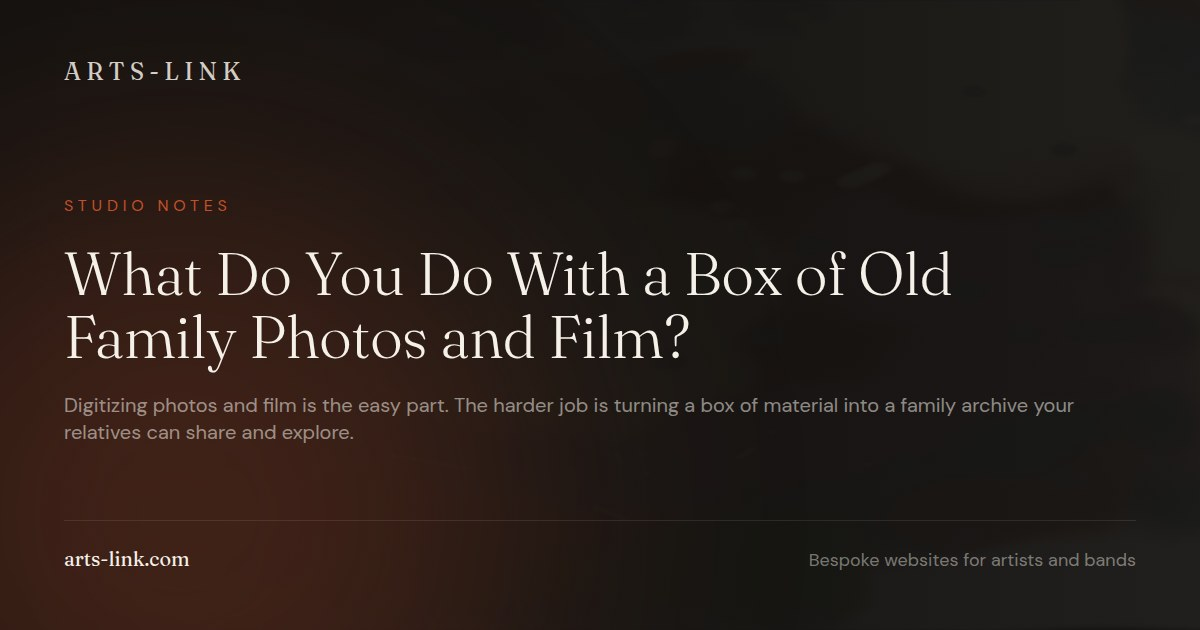
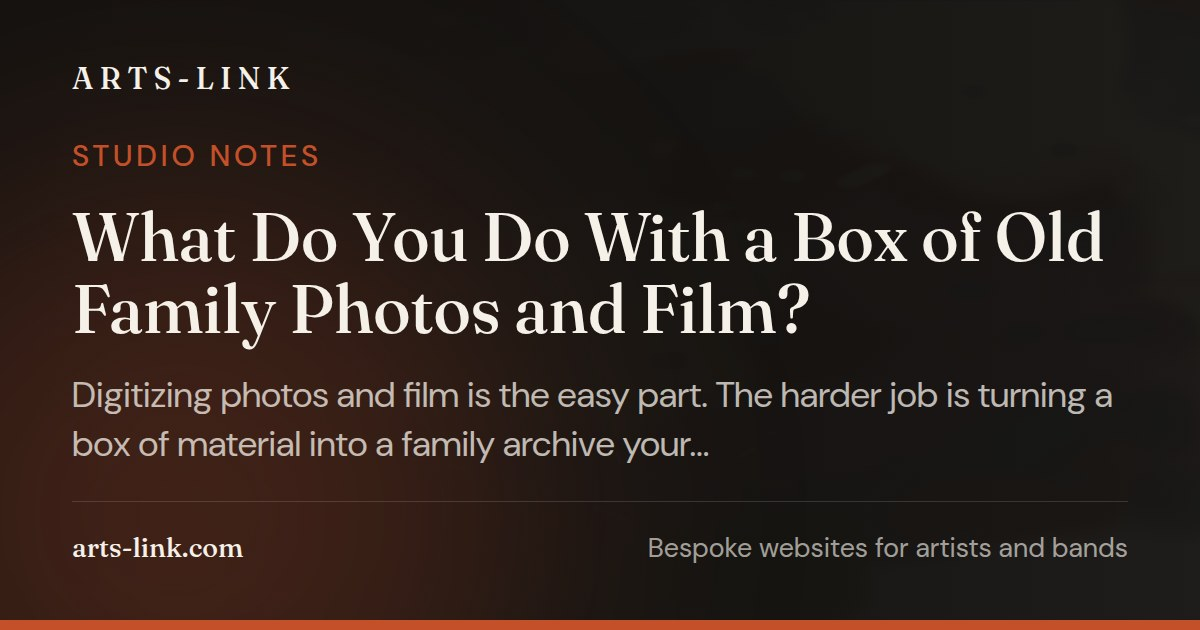
Redesign the social cards to read when downsampled
Link unfurls show these at roughly 300px in iMessage, 360px in Slack and 500px
on X — a 2x to 4x downsample. The first design was judged at 1200px, where it
looked fine; at the sizes people actually see, only the title survived, and
that thinly.

Three things were doing the damage: Fraunces at weight 300 loses its strokes
when scaled down, everything but the title sat below 30px, and cream/45–/55
washed out to nothing. So the card now has a type floor of ~27px, uses weight
500 for the display face, keeps text at cream/65 or above, and eases the
letter-spacing on the small caps, which smeared. A solid ember bar along the
bottom edge carries the brand at sizes where no type is readable at all.

The screenshot is larger and bled off the right edge — it can only ever be a
shape at these sizes, so it may as well be a bold one. The description is
dropped from cards that have a screenshot, where it shrank into a grey band
that read as noise rather than as text.

Two flaws that only showed up in a small-format contact sheet of all 20:
section listings repeated their own title in the eyebrow (WORK above "Work"),
so listings no longer take one; and unmapped sections fell back to the
Arts-Link brand, which the wordmark above already carries, so they now
humanize their own name instead.

docs/site-system.yaml and CLAUDE.md record the sizing constraint and the
instruction to judge any redesign downsampled rather than at full size.
[…]

diff --git a/layouts/partials/og-card.html b/layouts/partials/og-card.html
@@ -6,15 +6,26 @@
   can design it live: `hugo server`, then open e.g.
   http://localhost:1313/work/rt2026/og.html
 
+  Sizing is driven by where these are actually seen. Link unfurls render the
+  card at roughly 300px (iMessage), 360px (Slack) or 500px (X) wide — a 2x to
+  4x downsample — so nothing here is below ~27px, the display face is weight
+  500 rather than the site's usual light (thin strokes disappear when scaled
+  down), and text sits at cream/65 or above. The solid ember bar along the
+  bottom carries the brand at sizes where no type is readable at all.
+
   This is the only file to edit when redesigning the card.
 */}}
 
 {{- $shot := "" }}
 {{- with .Resources.GetMatch "screenshot*" }}
-  {{- $shot = .Fill "1120x840 Top" }}
+  {{- $shot = .Fill "1120x700 Top" }}
 {{- end }}
 
-{{/* Eyebrow: section label, plus the client type on work entries. */}}
+{{/* Eyebrow: which part of the site this page belongs to, plus the client type
+     on work entries. Section listings get none — their title already says
+     "Work" or "Services", and repeating it wastes the most legible line on the
+     card. Unmapped sections humanize their name rather than falling back to the
+     brand, which the wordmark above already carries. */}}
 {{- $labels := dict
       "work"     "Work"
       "blog"     "Studio Notes"
@@ -25,74 +36,88 @@
       "contact"  "Contact"
       "thanks"   "Thanks"
 }}
-{{- $eyebrow := cond .IsHome "Web Studio" (index $labels .Section) }}
-{{- if not $eyebrow }}{{ $eyebrow = "Arts-Link" }}{{ end }}
-{{- if and (eq .Section "work") .Params.client_type }}
-  {{- $eyebrow = printf "%s · %s" $eyebrow (title .Params.client_type) }}
+{{- $eyebrow := "" }}
+{{- if .IsHome }}
+  {{- $eyebrow = "Web Studio" }}
+{{- else if .IsPage }}
+  {{- $eyebrow = default (humanize .Section) (index $labels .Section) }}
+  {{- if and (eq .Section "work") .Params.client_type }}
+    {{- $eyebrow = printf "%s · %s" $eyebrow (title .Params.client_type) }}
+  {{- end }}
 {{- end }}
 
-{{/* Title scales down as it gets longer, and again when a screenshot is
-     sharing the row, so nothing overflows the fixed canvas. */}}
+{{/* Title scales down as it gets longer, and again when a screenshot narrows
+     the column. The floor stays large enough to survive a 4x downsample. */}}
 {{- $len := len .Title }}
 {{- $titleSize := "" }}
 {{- if $shot }}
-  {{- $titleSize = cond (le $len 18) "text-6xl" (cond (le $len 34) "text-5xl" "text-4xl") }}
+  {{- $titleSize = cond (le $len 18) "text-[72px]" (cond (le $len 34) "text-[62px]" "text-[52px]") }}
 {{- else }}
-  {{- $titleSize = cond (le $len 22) "text-8xl" (cond (le $len 44) "text-7xl" "text-6xl") }}
+  {{- $titleSize = cond (le $len 22) "text-[104px]" (cond (le $len 44) "text-[84px]" "text-[68px]") }}
 {{- end }}
 
-{{/* Description falls back to the page summary; work entries rarely set one. */}}
-{{- $desc := .Description }}
-{{- if not $desc }}{{ $desc = .Summary }}{{ end }}
-{{- $desc = $desc | plainify | htmlUnescape | strings.TrimSpace | truncate (cond (ne $shot "") 90 150) "…" }}
+{{/* Description only on cards without a screenshot. Beside one it shrinks to a
+     grey band that reads as noise rather than text once downsampled, and the
+     screenshot already carries the context it would have added. */}}
+{{- $desc := "" }}
+{{- if not $shot }}
+  {{- $desc = default .Summary .Description | plainify | htmlUnescape | strings.TrimSpace | truncate 120 "…" }}
+{{- end }}
 
 {{/* Footer tagline — first sentence of the site description. */}}
 {{- $tagline := index (split .Site.Params.description ".") 0 }}
 
-<div class="w-[1200px] h-[630px] relative overflow-hidden bg-ink">
+<div class="relative h-[630px] w-[1200px] overflow-hidden bg-ink">
 
   <!-- Texture (desaturated so it reads as grain, not as competing colour),
        ember glow, and a scrim that keeps the text column on near-solid ink. -->
-  <div class="absolute inset-0 bg-cover bg-center opacity-[0.09]"
+  <div class="absolute inset-0 bg-cover bg-center opacity-[0.08]"
        style="background-image:url('/images/bg-paint-drip.webp');filter:saturate(.25) contrast(1.15)"></div>
-  <div class="absolute inset-0 bg-gradient-to-r from-ink via-ink/80 to-ink/40"></div>
+  <div class="absolute inset-0 bg-gradient-to-r from-ink via-ink/85 to-ink/45"></div>
   <div class="absolute -left-40 -bottom-56 h-[680px] w-[680px] rounded-full bg-ember/25 blur-[140px]"></div>
 
-  <div class="relative flex h-full flex-col px-16 py-14">
+  {{ with $shot }}
+    <!-- Bleeds off the right edge: more pixels for the image, and the crop
+         reads as deliberate rather than as a pasted-in thumbnail. -->
+    <div class="absolute right-[-60px] top-1/2 w-[560px] -translate-y-1/2">
+      <img src="{{ .RelPermalink }}" alt="" width="{{ .Width }}" height="{{ .Height }}"
+           class="w-full rounded-md ring-1 ring-cream/15 shadow-2xl">
+    </div>
+  {{ end }}
+
+  <div class="relative flex h-full flex-col px-[72px] pb-[62px] pt-[56px] {{ if $shot }}w-[700px]{{ end }}">
 
     <!-- Wordmark + badge -->
     <div class="flex items-center justify-between">
-      <span class="font-display text-2xl uppercase tracking-[0.22em] text-cream/85">Arts-Link</span>
+      <span class="font-display text-[30px] font-medium uppercase tracking-[0.2em] text-cream">Arts-Link</span>
       {{ if eq .Params.site_type "rescue" }}
-        <span class="text-sm uppercase tracking-[0.2em] text-ember border border-ember px-3 py-1 leading-none">Rescue</span>
+        <span class="border border-ember px-[14px] py-[6px] text-[23px] uppercase leading-none tracking-[0.1em] text-ember">Rescue</span>
       {{ else if eq .Params.site_type "open-source" }}
-        <span class="text-sm uppercase tracking-[0.2em] text-cream/80 border border-cream/25 px-3 py-1 leading-none">Open source</span>
+        <span class="border border-cream/35 px-[14px] py-[6px] text-[23px] uppercase leading-none tracking-[0.1em] text-cream/85">Open source</span>
       {{ end }}
     </div>
 
     <!-- Body -->
-    <div class="flex flex-1 items-center gap-14 pt-8">
-      <div class="{{ if $shot }}w-[590px] shrink-0{{ else }}w-full{{ end }}">
-        <p class="mb-6 text-base uppercase tracking-[0.3em] text-ember">{{ $eyebrow }}</p>
-        <h1 class="font-display font-light leading-[1.05] text-cream {{ $titleSize }}">{{ .Title }}</h1>
-        {{ with $desc }}
-          <p class="mt-6 text-xl leading-snug text-cream/55 line-clamp-3">{{ . }}</p>
-        {{ end }}
-      </div>
-
-      {{ with $shot }}
-        <div class="min-w-0 flex-1">
-          <img src="{{ .RelPermalink }}" alt="" width="{{ .Width }}" height="{{ .Height }}"
-               class="w-full rounded-sm ring-1 ring-cream/10 shadow-2xl">
-        </div>
+    <div class="flex flex-1 flex-col justify-center">
+      {{ with $eyebrow }}
+        <p class="mb-[22px] text-[30px] font-medium uppercase tracking-[0.13em] text-ember">{{ . }}</p>
+      {{ end }}
+      <h1 class="font-display font-medium leading-[1.06] text-cream {{ $titleSize }}">{{ .Title }}</h1>
+      {{ with $desc }}
+        <p class="mt-[26px] line-clamp-2 text-[36px] leading-snug text-cream/75">{{ . }}</p>
       {{ end }}
     </div>
 
     <!-- Footer -->
-    <div class="flex items-baseline justify-between border-t border-cream/10 pt-6">
-      <span class="font-display text-xl text-cream">arts-link.com</span>
-      <span class="text-lg text-cream/45">{{ $tagline }}</span>
+    <div class="flex items-baseline justify-between border-t border-cream/15 pt-[26px]">
+      <span class="font-display text-[27px] font-medium text-cream">arts-link.com</span>
+      {{ if not $shot }}
+        <span class="text-[27px] text-cream/65">{{ $tagline }}</span>
+      {{ end }}
     </div>
 
   </div>
+
+  <!-- Brand anchor: a solid bar still reads when no type does. -->
+  <div class="absolute inset-x-0 bottom-0 h-[10px] bg-ember"></div>
 </div>

diff --git a/CLAUDE.md b/CLAUDE.md
@@ -77,6 +77,13 @@ To redesign the card, edit `layouts/partials/og-card.html` and preview it live a
 `baseof.ogcard.html` deliberately has no `{{ block "main" }}` — see the comment in that
 file.
 
+**The card is designed to be read small.** Link unfurls render it at roughly 300px
+(iMessage), 360px (Slack) or 500px (X) wide, a 2–4× downsample, so the type has a floor
+of ~27px, the display face is `font-medium` rather than the site's usual `font-light`
+(thin strokes vanish when scaled down), and text stays at `cream/65` or above. Always
+check a redesign at those widths rather than at 1200px — everything looks fine at full
+size.
+
 **Deployment**: GitHub Pages via `.github/workflows/hugo.yml` (manual trigger, Hugo v0.138.0 extended). Note that `docs/site-system.yaml` records a migration to Vercel as in progress. CI runs separately in `.github/workflows/test.yml` on every push and PR: `npm ci` → `hugo --minify` → `npm test`.
 
 ## Tailwind & Styling
